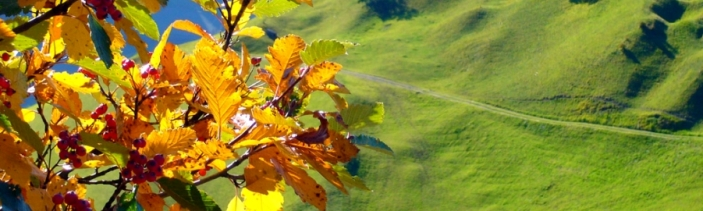
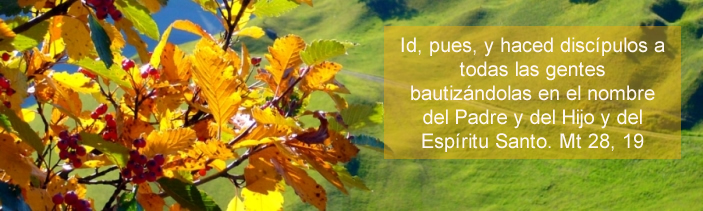
Diseño de la ventana principal

Changed region(s): [[0.5377, 0.1137, 0.9858, 0.7678]]

diff --git a/Parroquia/Parroquia/Parroquia.Designer.cs b/Parroquia/Parroquia/Parroquia.Designer.cs
@@ -72,6 +72,7 @@ namespace Parroquia
             this.reg_encontrados = new System.Windows.Forms.Label();
             this.label4 = new System.Windows.Forms.Label();
             this.ip = new System.Windows.Forms.Label();
+            this.label5 = new System.Windows.Forms.Label();
             this.menuStrip1.SuspendLayout();
             this.panel2.SuspendLayout();
             ((System.ComponentModel.ISupportInitialize)(this.fondoImg)).BeginInit();
@@ -344,7 +345,7 @@ namespace Parroquia
             // 
             // fondoImg
             // 
-            this.fondoImg.Image = global::Parroquia.Properties.Resources.p13;
+            this.fondoImg.Image = global::Parroquia.Properties.Resources.p3;
             this.fondoImg.Location = new System.Drawing.Point(-1, -1);
             this.fondoImg.Name = "fondoImg";
             this.fondoImg.Size = new System.Drawing.Size(693, 211);
@@ -408,11 +409,11 @@ namespace Parroquia
             // 
             // label1
             // 
-            this.label1.Location = new System.Drawing.Point(626, 615);
+            this.label1.Location = new System.Drawing.Point(613, 650);
             this.label1.Name = "label1";
-            this.label1.Size = new System.Drawing.Size(296, 32);
+            this.label1.Size = new System.Drawing.Size(305, 16);
             this.label1.TabIndex = 12;
-            this.label1.Text = "Simpus Soluciones Informáticas :: Derechos reservados 2014 Prototipo de prueba.";
+            this.label1.Text = "Simpus Soluciones Informáticas :: Derechos reservados 2014.";
             // 
             // timer2
             // 
@@ -474,11 +475,23 @@ namespace Parroquia
             this.ip.TabIndex = 17;
             this.ip.Text = "127.0.0.1";
             // 
+            // label5
+            // 
+            this.label5.AutoSize = true;
+            this.label5.Font = new System.Drawing.Font("Microsoft Sans Serif", 9F, System.Drawing.FontStyle.Bold, System.Drawing.GraphicsUnit.Point, ((byte)(0)));
+            this.label5.ForeColor = System.Drawing.Color.FromArgb(((int)(((byte)(192)))), ((int)(((byte)(0)))), ((int)(((byte)(0)))));
+            this.label5.Location = new System.Drawing.Point(766, 621);
+            this.label5.Name = "label5";
+            this.label5.Size = new System.Drawing.Size(167, 15);
+            this.label5.TabIndex = 18;
+            this.label5.Text = "PROTOTIPO DE PRUEBA";
+            // 
             // Parroquia
             // 
             this.AutoScaleDimensions = new System.Drawing.SizeF(96F, 96F);
             this.AutoScaleMode = System.Windows.Forms.AutoScaleMode.Dpi;
             this.ClientSize = new System.Drawing.Size(947, 669);
+            this.Controls.Add(this.label5);
             this.Controls.Add(this.ip);
             this.Controls.Add(this.label4);
             this.Controls.Add(this.reg_encontrados);
@@ -553,6 +566,7 @@ namespace Parroquia
         private Label label4;
         private Label ip;
         public static Button btnbuscar;
+        private Label label5;
 
 
     }

diff --git a/Parroquia/Parroquia/Parroquia.cs b/Parroquia/Parroquia/Parroquia.cs
@@ -383,7 +383,7 @@ namespace Parroquia
             if (foto == 20)
                 foto = 0;
             foto++;
-            
+
         }
     }
 }
